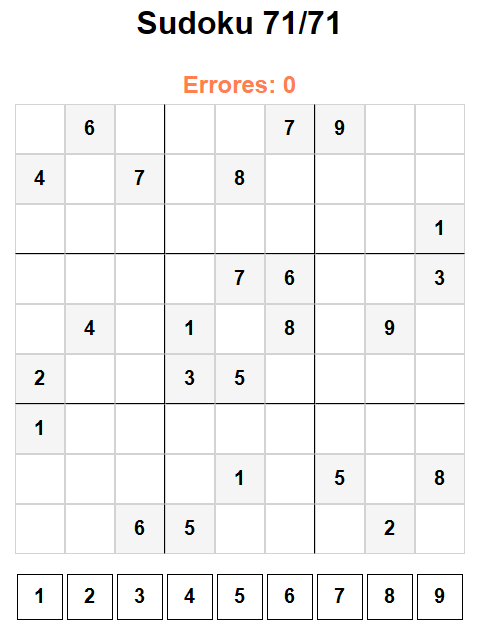
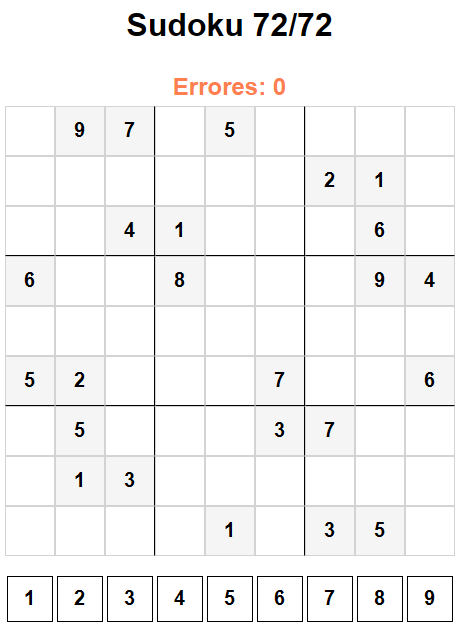
Merge pull request #87 from JDGonzal/feat/20260510
Feat: sudoku-javascript. 20260510

Pull request: Feat: sudoku-javascript. 20260510
- 20260510

#20260510

diff --git a/board.js b/board.js
@@ -141,6 +141,8 @@ const board = [
     '-5-9--3--', '7---4--56', '4--------', '--819----'],
   ['-6---79--', '4-7-8----', '--------1', '----76--3', '-4-1-8-9-',
     '2--35----', '1--------', '----1-5-8', '--65---2-',],
+  ['-97-5----', '------21-', '--41---6-', '6--8---94', '---------',
+    '52---7--6', '-5---37--', '-13------', '----1-35-'],
 ];
 
 export default function getBoard (WHICH) {

diff --git a/sudoku.js b/sudoku.js
@@ -10,7 +10,7 @@ let posExample = '';
 
 let errors = 0;
 
-const WHICH = 70;
+const WHICH = 71;
 let currentBoardIndex = WHICH; // El índice del tablero que se va a resolver
 
 let board = [];